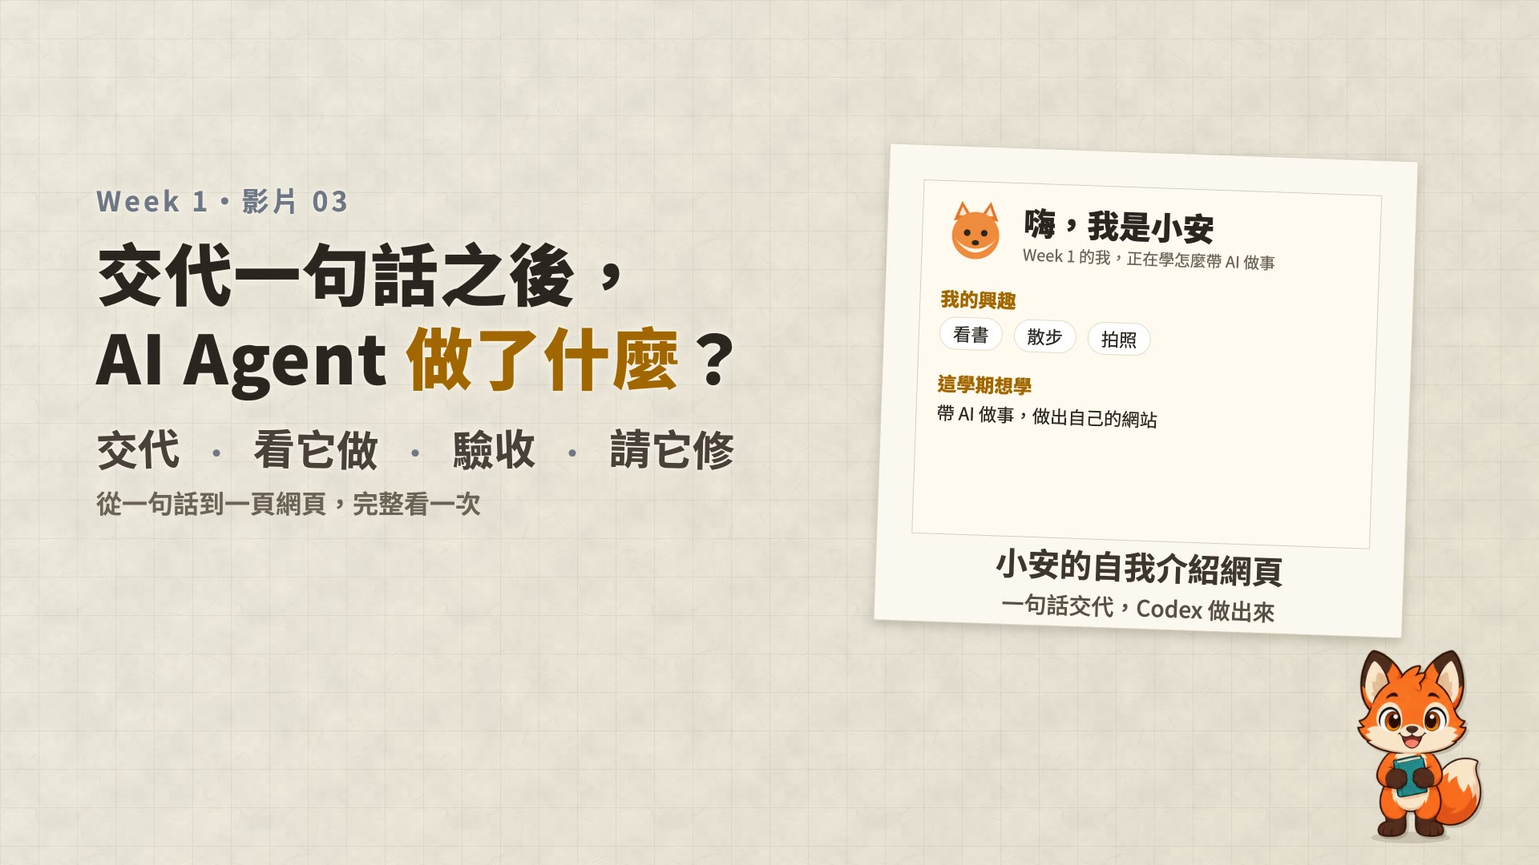
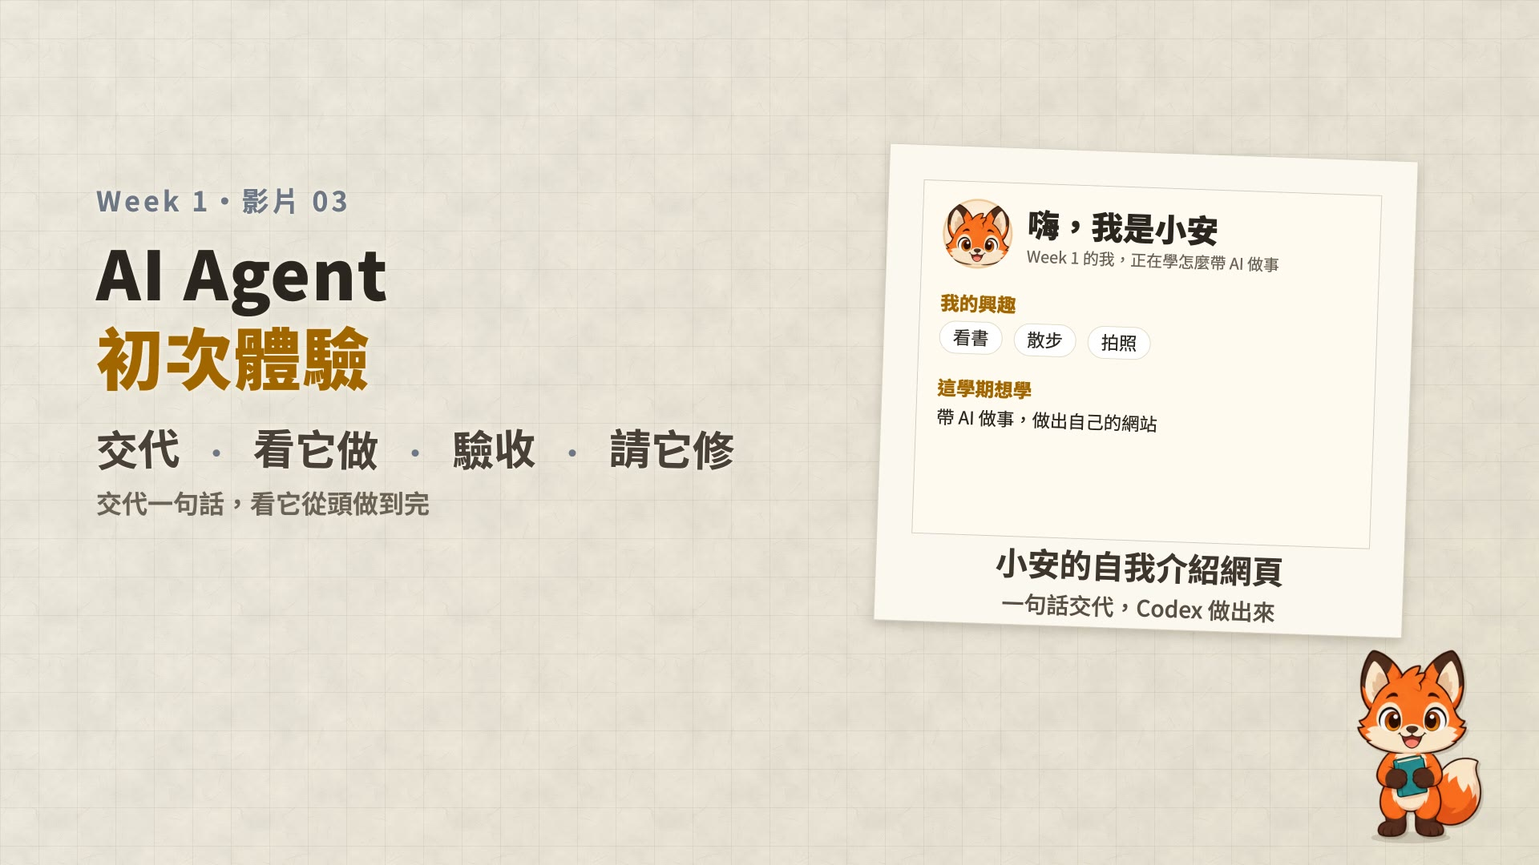
Week 1 video 03, round 2: "AI Agent 初次體驗", it checks its own page, all on your computer
Teacher's review: the video is now "AI Agent 初次體驗" (first run with an AI
agent), opening included; the page avatar is 小安 instead of a drawn fox head;
after building the page Codex opens its built-in browser to look at it itself
(it still misses photography, so you check); and a new closing chapter shows
the files in Finder: the result is on your computer, and creating files in
your folder or checking the page itself are things a web chat cannot do.
The browser content no longer reflows while the pane opens. 1:52.

diff --git a/weeks/week01/index.html b/weeks/week01/index.html
@@ -49,9 +49,9 @@
         data-en="Why Learn AI Agent Literacy"
         data-vi="Vì sao cần học AI Agent Literacy">為什麼要學 AI Agent Literacy</h1>
       <p class="lede" data-i18n
-        data-zh-hans="AI 已经不只会聊天：它会自己打开文件夹、读文件、写文件、运行命令。这门课要练的，是带 AI 做事的素养（AI Agent Literacy）：你给方向、设界线、验收，AI 动手做。这周先讲为什么要学、这门课怎么上，最后看 AI Agent 实际做一次。目标只有一个：成为一位厉害的 AI 驾驶员。"
-        data-en="AI no longer just chats: it opens folders, reads and writes files and runs commands on its own. This course trains AI agent literacy, the skill of leading AI to do the work: you give direction, set limits and check the result, while the AI does the work. This week covers why that matters and how the course runs, then shows an AI agent doing one task from start to finish. There is one goal: become a skilled AI driver."
-        data-vi="AI không còn chỉ biết trò chuyện: nó tự mở thư mục, đọc tệp, ghi tệp, chạy lệnh. Môn học này luyện năng lực dẫn AI làm việc (AI Agent Literacy): bạn định hướng, đặt giới hạn, nghiệm thu, còn AI tự tay làm. Tuần này nói vì sao cần học, môn học diễn ra thế nào, rồi xem AI Agent làm trọn một việc. Mục tiêu chỉ có một: trở thành một người lái AI giỏi.">AI 已經不只會聊天：它會自己打開資料夾、讀檔、寫檔、跑指令。這門課要練的，是帶 AI 做事的素養（AI Agent Literacy）：你給方向、設界線、驗收，AI 動手做。這週先講為什麼要學、這門課怎麼上，最後看 AI Agent 實際做一次。目標只有一個：成為一位厲害的 AI 駕駛員。</p>
+        data-zh-hans="AI 已经不只会聊天：它会自己打开文件夹、读文件、写文件、运行命令。这门课要练的，是带 AI 做事的素养（AI Agent Literacy）：你给方向、设界线、验收，AI 动手做。这周先讲为什么要学、这门课怎么上，最后是 AI Agent 初次体验：看它实际做一次。目标只有一个：成为一位厉害的 AI 驾驶员。"
+        data-en="AI no longer just chats: it opens folders, reads and writes files and runs commands on its own. This course trains AI agent literacy, the skill of leading AI to do the work: you give direction, set limits and check the result, while the AI does the work. This week covers why that matters and how the course runs, then a first run with an AI agent, one task from start to finish. There is one goal: become a skilled AI driver."
+        data-vi="AI không còn chỉ biết trò chuyện: nó tự mở thư mục, đọc tệp, ghi tệp, chạy lệnh. Môn học này luyện năng lực dẫn AI làm việc (AI Agent Literacy): bạn định hướng, đặt giới hạn, nghiệm thu, còn AI tự tay làm. Tuần này nói vì sao cần học, môn học diễn ra thế nào, rồi lần đầu dùng thử AI Agent, xem nó làm trọn một việc. Mục tiêu chỉ có một: trở thành một người lái AI giỏi.">AI 已經不只會聊天：它會自己打開資料夾、讀檔、寫檔、跑指令。這門課要練的，是帶 AI 做事的素養（AI Agent Literacy）：你給方向、設界線、驗收，AI 動手做。這週先講為什麼要學、這門課怎麼上，最後是 AI Agent 初次體驗：看它實際做一次。目標只有一個：成為一位厲害的 AI 駕駛員。</p>
       <p class="lang-note" data-ui="video.note"></p>
     </div>
 
@@ -167,9 +167,9 @@
 
     <section class="unit" id="03-first-run" aria-labelledby="u03-title">
       <h2 class="unit-title" id="u03-title"><span class="unit-num" data-ui="video.n" data-n="03">影片 03</span><span data-i18n
-        data-zh-hans="交代一句话之后，AI Agent 做了什么？从一句话到成品"
-        data-en="After One Instruction, What Does the AI Agent Do? From One Sentence to a Finished Page"
-        data-vi="Sau một câu dặn, AI Agent đã làm gì? Từ một câu đến thành phẩm">交代一句話之後，AI Agent 做了什麼？從一句話到成品</span></h2>
+        data-zh-hans="AI Agent 初次体验：从一句话到成品"
+        data-en="A First Run with an AI Agent: From One Sentence to a Finished Page"
+        data-vi="Lần đầu dùng AI Agent: từ một câu đến thành phẩm">AI Agent 初次體驗：從一句話到成品</span></h2>
 
       <div class="film">
         <div class="player">
@@ -184,12 +184,15 @@
         <li><button type="button" data-t="7"><span class="k">00:07</span><span class="t" data-i18n data-zh-hans="交代：用母语说清楚" data-en="Instruct: say it clearly in your own language" data-vi="Dặn việc: nói rõ bằng tiếng mẹ đẻ">交代：用母語說清楚</span></button></li>
         <li><button type="button" data-t="19"><span class="k">00:19</span><span class="t" data-i18n data-zh-hans="三件事：做什么、做到什么程度、界线" data-en="Three things: what, how far, the limits" data-vi="Ba điều: làm gì, tới mức nào, giới hạn">三件事：做什麼、做到什麼程度、界線</span></button></li>
         <li><button type="button" data-t="29"><span class="k">00:29</span><span class="t" data-i18n data-zh-hans="看它做" data-en="Watch it work" data-vi="Xem nó làm">看它做</span></button></li>
-        <li><button type="button" data-t="39"><span class="k">00:39</span><span class="t" data-i18n data-zh-hans="改了哪些文件：+ 新增、− 删除" data-en="Which files changed: + added, − removed" data-vi="Tệp nào đã đổi: + thêm, − xóa">改了哪些檔案：+ 新增、− 刪掉</span></button></li>
-        <li><button type="button" data-t="50"><span class="k">00:50</span><span class="t" data-i18n data-zh-hans="验收：用自己的清单" data-en="Check it against your own list" data-vi="Nghiệm thu theo danh sách của bạn">驗收：用自己的清單</span></button></li>
-        <li><button type="button" data-t="61"><span class="k">01:01</span><span class="t" data-i18n data-zh-hans="兴趣少了“拍照”" data-en="One interest is missing: photography" data-vi="Thiếu một sở thích: chụp ảnh">興趣少了「拍照」</span></button></li>
-        <li><button type="button" data-t="70"><span class="k">01:10</span><span class="t" data-i18n data-zh-hans="不对，就请它修" data-en="If it is wrong, ask it to fix it" data-vi="Sai thì nhờ nó sửa">不對，就請它修</span></button></li>
-        <li><button type="button" data-t="81"><span class="k">01:21</span><span class="t" data-i18n data-zh-hans="再验收一次：三条都过" data-en="Check again: all three pass" data-vi="Nghiệm thu lại: cả ba đều đạt">再驗收一次：三條都過</span></button></li>
-        <li><button type="button" data-t="87"><span class="k">01:27</span><span class="t" data-i18n data-zh-hans="结尾：这一圈就是驾驶员的工作" data-en="Wrap-up: this loop is the driver’s job" data-vi="Kết: vòng này là việc của người lái">結尾：這一圈就是駕駛員的工作</span></button></li>
+        <li><button type="button" data-t="36"><span class="k">00:36</span><span class="t" data-i18n data-zh-hans="它自己打开网页看一次" data-en="It opens the page itself to check" data-vi="Nó tự mở trang để kiểm tra">它自己打開網頁看一次</span></button></li>
+        <li><button type="button" data-t="42"><span class="k">00:42</span><span class="t" data-i18n data-zh-hans="改了哪些文件：+ 新增、− 删除" data-en="Which files changed: + added, − removed" data-vi="Tệp nào đã đổi: + thêm, − xóa">改了哪些檔案：+ 新增、− 刪掉</span></button></li>
+        <li><button type="button" data-t="53"><span class="k">00:53</span><span class="t" data-i18n data-zh-hans="验收：用自己的清单" data-en="Check it against your own list" data-vi="Nghiệm thu theo danh sách của bạn">驗收：用自己的清單</span></button></li>
+        <li><button type="button" data-t="64"><span class="k">01:04</span><span class="t" data-i18n data-zh-hans="兴趣少了“拍照”" data-en="One interest is missing: photography" data-vi="Thiếu một sở thích: chụp ảnh">興趣少了「拍照」</span></button></li>
+        <li><button type="button" data-t="73"><span class="k">01:13</span><span class="t" data-i18n data-zh-hans="不对，就请它修" data-en="If it is wrong, ask it to fix it" data-vi="Sai thì nhờ nó sửa">不對，就請它修</span></button></li>
+        <li><button type="button" data-t="84"><span class="k">01:24</span><span class="t" data-i18n data-zh-hans="再验收一次：三条都过" data-en="Check again: all three pass" data-vi="Nghiệm thu lại: cả ba đều đạt">再驗收一次：三條都過</span></button></li>
+        <li><button type="button" data-t="90"><span class="k">01:30</span><span class="t" data-i18n data-zh-hans="成品，就在你的电脑里" data-en="The result is right on your computer" data-vi="Thành phẩm nằm ngay trong máy bạn">成品，就在你的電腦裡</span></button></li>
+        <li><button type="button" data-t="98"><span class="k">01:38</span><span class="t" data-i18n data-zh-hans="网页版 AI 聊天做不到的事" data-en="What a web AI chat cannot do" data-vi="Những việc AI chat trên web không làm được">網頁版 AI 聊天做不到的事</span></button></li>
+        <li><button type="button" data-t="103"><span class="k">01:43</span><span class="t" data-i18n data-zh-hans="结尾：这一圈就是驾驶员的工作" data-en="Wrap-up: this loop is the driver’s job" data-vi="Kết: vòng này là việc của người lái">結尾：這一圈就是駕駛員的工作</span></button></li>
       </ol>
 
       <ol class="points">
@@ -198,17 +201,21 @@
           data-en="&lt;strong&gt;Instruct: say three things clearly in your own language.&lt;/strong&gt; 小安 types into Codex: make a one-page self-introduction (name, three interests, what I want to learn this term); keep the style simple and easy to read on a phone; use only this folder and do not upload anything. What to do, how far to take it and the limits are all stated."
           data-vi="&lt;strong&gt;Dặn việc: nói rõ ba điều bằng tiếng mẹ đẻ.&lt;/strong&gt; 小安 gõ vào Codex: làm một trang web tự giới thiệu (tên, ba sở thích, điều muốn học kỳ này); phong cách đơn giản, đọc tốt trên điện thoại; chỉ dùng thư mục này, không tải lên mạng. Làm gì, làm tới mức nào và giới hạn đều nói rõ."><strong>交代：用母語說清楚三件事。</strong>小安在 Codex 打一段話：做一頁自我介紹網頁（名字、三個興趣、這學期想學的）；風格簡單、手機也好讀；只用這個資料夾，不要上傳到網路。做什麼、做到什麼程度、界線，都說清楚。</p></li>
         <li><p data-i18n
-          data-zh-hans="&lt;strong&gt;看它做、看改了哪里。&lt;/strong&gt;它自己读文件夹、建立 &lt;code&gt;index.html&lt;/code&gt; 和 &lt;code&gt;style.css&lt;/code&gt;、打开预览；做完列出改了哪些文件，每个文件旁边的 + 是新增的行数，− 是删除的。"
-          data-en="&lt;strong&gt;Watch it work and see what changed.&lt;/strong&gt; It reads the folder, creates &lt;code&gt;index.html&lt;/code&gt; and &lt;code&gt;style.css&lt;/code&gt; and opens a preview; when it is done it lists the files it changed, with + for lines added and − for lines removed next to each file."
-          data-vi="&lt;strong&gt;Xem nó làm và xem đã sửa chỗ nào.&lt;/strong&gt; Nó tự đọc thư mục, tạo &lt;code&gt;index.html&lt;/code&gt; và &lt;code&gt;style.css&lt;/code&gt;, mở bản xem trước; làm xong thì liệt kê các tệp đã đổi, cạnh mỗi tệp có + là số dòng thêm, − là số dòng xóa."><strong>看它做、看改了哪裡。</strong>它自己讀資料夾、建立 <code>index.html</code> 和 <code>style.css</code>、打開預覽；做完列出改了哪些檔案，每個檔案旁邊的 + 是新增的行數，− 是刪掉的。</p></li>
+          data-zh-hans="&lt;strong&gt;看它做，它也会自己检查。&lt;/strong&gt;它自己读文件夹、建立 &lt;code&gt;index.html&lt;/code&gt; 和 &lt;code&gt;style.css&lt;/code&gt;，做完还会自己打开内置浏览器看一次；最后列出改了哪些文件，每个文件旁边的 + 是新增的行数，− 是删除的。"
+          data-en="&lt;strong&gt;Watch it work; it checks too.&lt;/strong&gt; It reads the folder, creates &lt;code&gt;index.html&lt;/code&gt; and &lt;code&gt;style.css&lt;/code&gt;, then opens the built-in browser to look at the page itself; finally it lists the files it changed, with + for lines added and − for lines removed next to each file."
+          data-vi="&lt;strong&gt;Xem nó làm, nó cũng tự kiểm tra.&lt;/strong&gt; Nó tự đọc thư mục, tạo &lt;code&gt;index.html&lt;/code&gt; và &lt;code&gt;style.css&lt;/code&gt;, làm xong còn tự mở trình duyệt tích hợp xem lại một lần; cuối cùng liệt kê các tệp đã đổi, cạnh mỗi tệp có + là số dòng thêm, − là số dòng xóa."><strong>看它做，它也會自己檢查。</strong>它自己讀資料夾、建立 <code>index.html</code> 和 <code>style.css</code>，做完還會自己打開內建瀏覽器看一次；最後列出改了哪些檔案，每個檔案旁邊的 + 是新增的行數，− 是刪掉的。</p></li>
         <li><p data-i18n
-          data-zh-hans="&lt;strong&gt;验收：拿自己的清单一条一条看。&lt;/strong&gt;在 Codex 的内置浏览器打开网页，对照自己的验收清单：名字对、想学的有写，但兴趣少了“拍照”。AI 也会漏掉，所以一定要验收。"
-          data-en="&lt;strong&gt;Check it, item by item, against your own list.&lt;/strong&gt; Open the page in Codex’s built-in browser and compare it with your checklist: the name is right and the learning goal is there, but one interest, photography, is missing. AI misses things too, so always check."
-          data-vi="&lt;strong&gt;Nghiệm thu: xem từng mục theo danh sách của bạn.&lt;/strong&gt; Mở trang trong trình duyệt tích hợp của Codex rồi đối chiếu danh sách nghiệm thu: tên đúng, có ghi điều muốn học, nhưng thiếu sở thích “chụp ảnh”. AI cũng bỏ sót, nên nhất định phải nghiệm thu."><strong>驗收：拿自己的清單一條一條看。</strong>在 Codex 的內建瀏覽器打開網頁，對照自己的驗收清單：名字對、想學的有寫，但興趣少了「拍照」。AI 也會漏掉，所以一定要驗收。</p></li>
+          data-zh-hans="&lt;strong&gt;验收：拿自己的清单一条一条看。&lt;/strong&gt;AI 看过了，你还是要自己验收：对照自己的验收清单，名字对、想学的有写，但兴趣少了“拍照”。AI 自己检查也会漏，所以一定要验收。"
+          data-en="&lt;strong&gt;Check it, item by item, against your own list.&lt;/strong&gt; The AI has looked, but you still check it yourself: against your checklist the name is right and the learning goal is there, but one interest, photography, is missing. Even its own check misses things, so always check."
+          data-vi="&lt;strong&gt;Nghiệm thu: xem từng mục theo danh sách của bạn.&lt;/strong&gt; AI đã xem rồi, bạn vẫn phải tự nghiệm thu: đối chiếu danh sách, tên đúng, có ghi điều muốn học, nhưng thiếu sở thích “chụp ảnh”. AI tự kiểm tra cũng có thể sót, nên nhất định phải nghiệm thu."><strong>驗收：拿自己的清單一條一條看。</strong>AI 看過了，你還是要自己驗收：對照自己的驗收清單，名字對、想學的有寫，但興趣少了「拍照」。AI 自己檢查也會漏，所以一定要驗收。</p></li>
         <li><p data-i18n
           data-zh-hans="&lt;strong&gt;不对，就请它修，再验收一次。&lt;/strong&gt;一句话：“兴趣少了拍照，帮我补上。”这次只改了 &lt;code&gt;index.html&lt;/code&gt; 一行（+1）；再看一次，三条都过了。交代 → 看它做 → 验收 → 请它修，这一圈就是 AI 驾驶员的工作。下周把 Codex 装起来，自己开一次。"
           data-en="&lt;strong&gt;If it is wrong, ask it to fix it, then check again.&lt;/strong&gt; One sentence: “Photography is missing from my interests, please add it.” This time it changes one line of &lt;code&gt;index.html&lt;/code&gt; (+1); check again and all three pass. Instruct → watch it work → check → ask for fixes: this loop is the AI driver’s job. Next week, install Codex and run it yourself."
           data-vi="&lt;strong&gt;Sai thì nhờ nó sửa, rồi nghiệm thu lại.&lt;/strong&gt; Một câu: “Sở thích thiếu chụp ảnh, thêm vào giúp mình.” Lần này chỉ sửa một dòng &lt;code&gt;index.html&lt;/code&gt; (+1); xem lại, cả ba đều đạt. Dặn việc → xem nó làm → nghiệm thu → nhờ sửa: vòng này chính là việc của người lái AI. Tuần sau hãy cài Codex và tự chạy một lần."><strong>不對，就請它修，再驗收一次。</strong>一句話：「興趣少了拍照，幫我補上。」這次只改了 <code>index.html</code> 一行（+1）；再看一次，三條都過了。交代 → 看它做 → 驗收 → 請它修，這一圈就是 AI 駕駛員的工作。下週把 Codex 裝起來，自己開一次。</p></li>
+        <li><p data-i18n
+          data-zh-hans="&lt;strong&gt;成品，就在你的电脑里。&lt;/strong&gt;做完的 &lt;code&gt;index.html&lt;/code&gt;、&lt;code&gt;style.css&lt;/code&gt; 都在你电脑的文件夹里（桌面 › 小安的网站），打开 Finder 就看得到。直接在你的文件夹建文件、改文件，做完再自己打开网页检查做得对不对，这些都是网页版 AI 聊天做不到的。"
+          data-en="&lt;strong&gt;The result is right on your computer.&lt;/strong&gt; The finished &lt;code&gt;index.html&lt;/code&gt; and &lt;code&gt;style.css&lt;/code&gt; sit in a folder on your computer (Desktop › 小安的網站), where Finder shows them. Creating and changing files directly in your folder, then opening the page itself to check the work, are things a web AI chat cannot do."
+          data-vi="&lt;strong&gt;Thành phẩm nằm ngay trong máy bạn.&lt;/strong&gt; &lt;code&gt;index.html&lt;/code&gt; và &lt;code&gt;style.css&lt;/code&gt; đã làm xong nằm trong thư mục trên máy bạn (Desktop › 小安的網站), mở Finder là thấy. Tạo tệp, sửa tệp ngay trong thư mục của bạn, làm xong còn tự mở trang để kiểm tra đúng chưa: đó là những việc AI chat trên web không làm được."><strong>成品，就在你的電腦裡。</strong>做完的 <code>index.html</code>、<code>style.css</code> 都在你電腦的資料夾裡（桌面 › 小安的網站），打開 Finder 就看得到。直接在你的資料夾建檔案、改檔案，做完再自己打開網頁檢查做得對不對，這些都是網頁版 AI 聊天做不到的。</p></li>
       </ol>
     </section>
 

diff --git a/assets/course.js b/assets/course.js
@@ -27,26 +27,26 @@
     1: {
       status: "ready",
       title: "為什麼要學 AI Agent Literacy",
-      summary: "AI 從聊天走到做事：這門課練的是帶 AI 做事的素養，你給方向、設界線、驗收，AI 動手做。再看這門課怎麼上：Codex 桌面版＋VS Code、很多實作、評分看過程、卡住了照三步自學、用母語就好。最後看 AI Agent 實際做一次：交代、看它做、驗收、請它修。",
+      summary: "AI 從聊天走到做事：這門課練的是帶 AI 做事的素養，你給方向、設界線、驗收，AI 動手做。再看這門課怎麼上：Codex 桌面版＋VS Code、很多實作、評分看過程、卡住了照三步自學、用母語就好。最後是 AI Agent 初次體驗：交代、看它做、驗收、請它修，成品就在你的電腦裡。",
       href: "weeks/week01/",
       thumb: "weeks/week01/video/01-agent-literacy/thumb.jpg",
       still: "weeks/week01/video/01-agent-literacy/poster.jpg",
-      meta: "3 支影片・共 5 分 35 秒",
+      meta: "3 支影片・共 5 分 51 秒",
       i18n: {
         "zh-Hans": {
           title: "为什么要学 AI Agent Literacy",
-          summary: "AI 从聊天走到做事：这门课练的是带 AI 做事的素养，你给方向、设界线、验收，AI 动手做。再看这门课怎么上：Codex 桌面版＋VS Code、很多动手任务、评分看过程、卡住了照三步自学、用母语就好。最后看 AI Agent 实际做一次：交代、看它做、验收、请它修。",
-          meta: "3 个视频・共 5 分 35 秒",
+          summary: "AI 从聊天走到做事：这门课练的是带 AI 做事的素养，你给方向、设界线、验收，AI 动手做。再看这门课怎么上：Codex 桌面版＋VS Code、很多动手任务、评分看过程、卡住了照三步自学、用母语就好。最后是 AI Agent 初次体验：交代、看它做、验收、请它修，成品就在你的电脑里。",
+          meta: "3 个视频・共 5 分 51 秒",
         },
         en: {
           title: "Why Learn AI Agent Literacy",
-          summary: "AI has moved from chatting to doing: this course trains the literacy of leading AI to do the work, where you give direction, set limits and check the result. Then how the course runs: the Codex desktop app plus VS Code, lots of hands-on work graded on the process, three steps when you are stuck, and your own language is fine. Finally, watch an AI agent do one task: instruct, watch it work, check, ask for fixes.",
-          meta: "3 videos · 5 min 35 s in total",
+          summary: "AI has moved from chatting to doing: this course trains the literacy of leading AI to do the work, where you give direction, set limits and check the result. Then how the course runs: the Codex desktop app plus VS Code, lots of hands-on work graded on the process, three steps when you are stuck, and your own language is fine. Finally, a first run with an AI agent: instruct, watch it work, check, ask for fixes, and the result is on your computer.",
+          meta: "3 videos · 5 min 51 s in total",
         },
         vi: {
           title: "Vì sao cần học AI Agent Literacy",
-          summary: "AI đã chuyển từ trò chuyện sang làm việc: môn học này luyện năng lực dẫn AI làm việc, bạn định hướng, đặt giới hạn, nghiệm thu, còn AI tự tay làm. Tiếp theo là cách học môn này: Codex bản desktop cùng VS Code, nhiều bài thực hành chấm theo quá trình, bị kẹt thì theo ba bước, dùng tiếng mẹ đẻ là được. Cuối cùng xem AI Agent làm một việc: dặn việc, xem nó làm, nghiệm thu, nhờ sửa.",
-          meta: "3 video · tổng cộng 5 phút 35 giây",
+          summary: "AI đã chuyển từ trò chuyện sang làm việc: môn học này luyện năng lực dẫn AI làm việc, bạn định hướng, đặt giới hạn, nghiệm thu, còn AI tự tay làm. Tiếp theo là cách học môn này: Codex bản desktop cùng VS Code, nhiều bài thực hành chấm theo quá trình, bị kẹt thì theo ba bước, dùng tiếng mẹ đẻ là được. Cuối cùng là lần đầu dùng thử AI Agent: dặn việc, xem nó làm, nghiệm thu, nhờ sửa, thành phẩm nằm ngay trong máy bạn.",
+          meta: "3 video · tổng cộng 5 phút 51 giây",
         },
       },
     },
